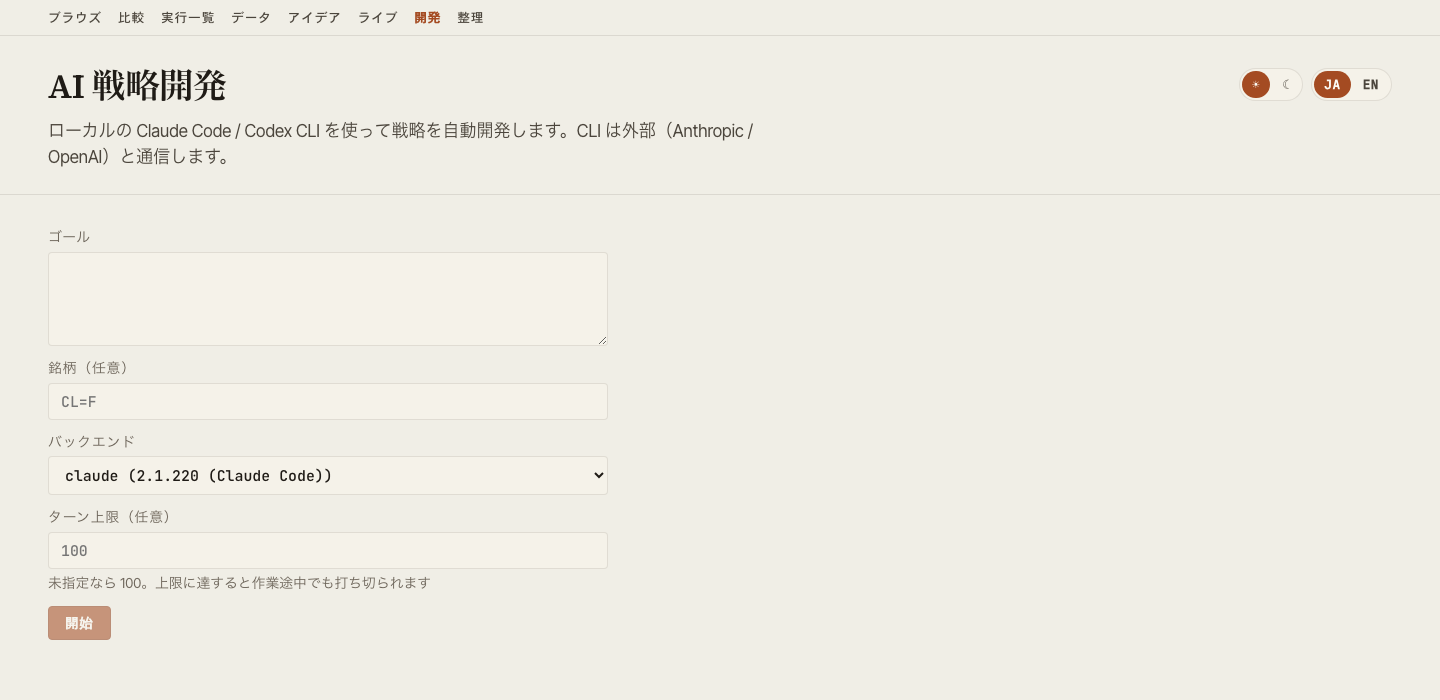
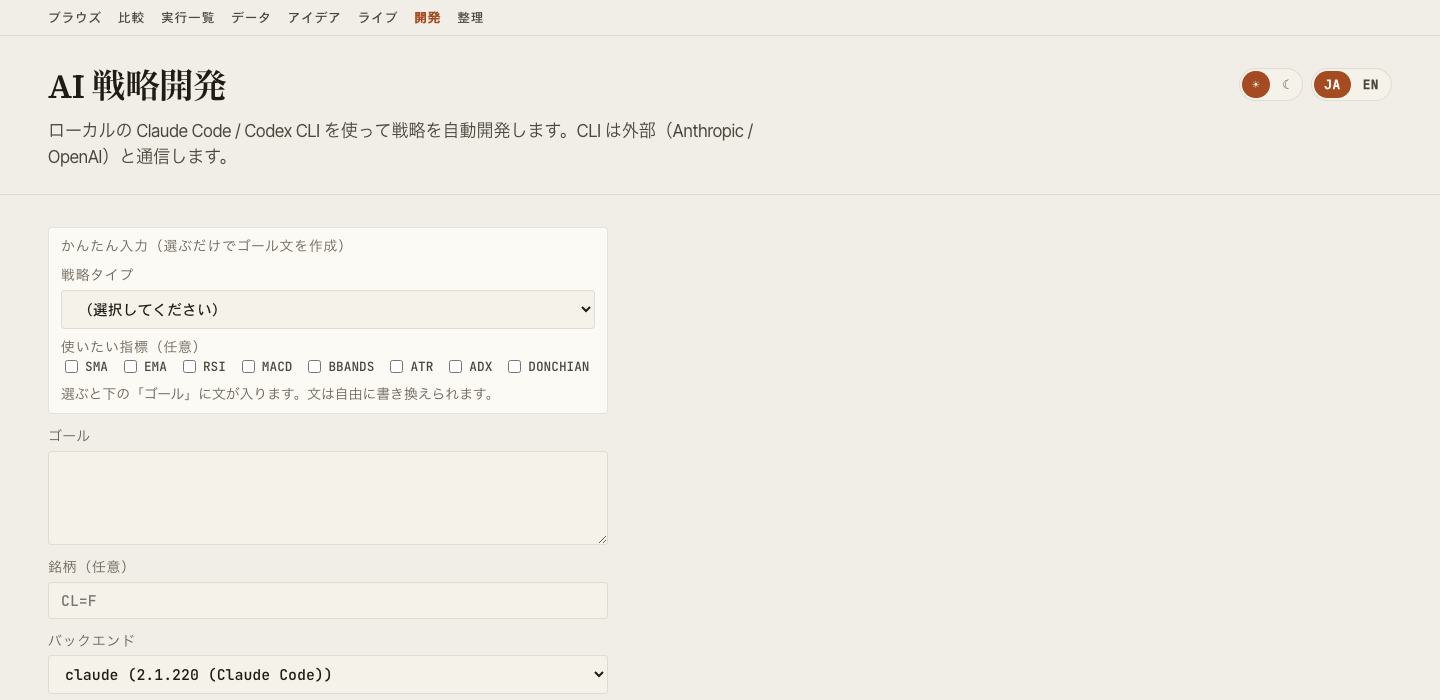
feat(front): 開発画面にゴールビルダー（選択式でゴール文を組み立て）を追加 (#499)
自由文でゴールを書けない初中級者向けに「かんたん入力」（折りたたみ）を
追加。戦略タイプ（トレンドフォロー / 平均回帰 / ブレイクアウト）と指標
（Pine 対応の主要 8 種に限定 — 非対応指標を勧めると #488 の警告対象になる）
を選ぶと、共通のゴール欄に文が組み上がる。モード切替は設けず、組み上がった
文はそのまま編集でき、自由記述も従来通り（API 変更なし）。

文言の SSoT は lib/goalBuilder.ts（pure function・日英）。銘柄はゴール文に
含めない — symbol パラメータとして別途プロンプトに渡るため、二重管理を
避ける。

Refs #489

diff --git a/frontend/src/screens/DevelopScreen.tsx b/frontend/src/screens/DevelopScreen.tsx
@@ -6,6 +6,8 @@ import { Button, ErrorBanner, Loading } from '../design/primitives'
 import type { Theme } from '../hooks/useTheme'
 import type { Lang } from '../i18n/strings'
 import { makeL } from '../i18n/strings'
+import type { GoalTypeId } from '../lib/goalBuilder'
+import { BUILDER_INDICATORS, GOAL_TYPES, buildGoalText } from '../lib/goalBuilder'
 import { SettingsToggles } from '../components/SettingsToggles'
 
 type AgentBackendId = 'claude' | 'codex'
@@ -271,6 +273,21 @@ function DevelopForm({
   )
   const [maxTurns, setMaxTurns] = useState('')
 
+  // ゴールビルダー（issue #489）。選択が変わるたびにゴール欄へ文を書き込む。
+  // 何も選ばれていない状態への遷移では空文字が返り、自由記述を消さない。
+  const [builderType, setBuilderType] = useState<GoalTypeId | ''>('')
+  const [builderIndicators, setBuilderIndicators] = useState<readonly string[]>([])
+
+  const applyBuilder = (
+    typeId: GoalTypeId | '',
+    indicators: readonly string[],
+  ): void => {
+    setBuilderType(typeId)
+    setBuilderIndicators(indicators)
+    const text = buildGoalText(lang, typeId, indicators)
+    if (text !== '') setGoal(text)
+  }
+
   const canStart = goal.trim().length > 0 && !running
 
   // 未取得銘柄の警告（issue #486）。一覧が取れていない（null）ときは
@@ -290,6 +307,99 @@ function DevelopForm({
         maxWidth: 560,
       }}
     >
+      {/* かんたん入力（issue #489）: 選択式でゴール文を組み立てる補助 UI。
+          モード切替ではなく共通のゴール欄へ書き込む形にする — 自由記述は
+          常に可能で、組み上がった文もそのまま編集できる。 */}
+      <details
+        open
+        style={{
+          border: '1px solid var(--border)',
+          borderRadius: 'var(--radius-sm)',
+          padding: 'var(--space-2) var(--space-3)',
+          background: 'var(--surface)',
+        }}
+      >
+        <summary
+          style={{ ...LABEL_STYLE, cursor: 'pointer', userSelect: 'none' }}
+        >
+          {L('かんたん入力（選ぶだけでゴール文を作成）', 'Quick input (build the goal by selecting)')}
+        </summary>
+        <div
+          style={{
+            display: 'flex',
+            flexDirection: 'column',
+            gap: 'var(--space-2)',
+            marginTop: 'var(--space-2)',
+          }}
+        >
+          <label style={LABEL_STYLE}>
+            {L('戦略タイプ', 'Strategy type')}
+            <select
+              aria-label={L('戦略タイプ', 'Strategy type')}
+              value={builderType}
+              onChange={(e) =>
+                applyBuilder(e.target.value as GoalTypeId | '', builderIndicators)
+              }
+              disabled={running}
+              style={CONTROL_STYLE}
+            >
+              <option value="">{L('（選択してください）', '(select)')}</option>
+              {GOAL_TYPES.map((t) => (
+                <option key={t.id} value={t.id}>
+                  {lang === 'ja' ? t.ja : t.en}
+                </option>
+              ))}
+            </select>
+          </label>
+          <fieldset
+            style={{
+              border: 'none',
+              margin: 0,
+              padding: 0,
+            }}
+          >
+            <legend style={{ ...LABEL_STYLE, padding: 0 }}>
+              {L('使いたい指標（任意）', 'Indicators (optional)')}
+            </legend>
+            <div style={{ display: 'flex', flexWrap: 'wrap', gap: '4px 12px' }}>
+              {BUILDER_INDICATORS.map((ind) => (
+                <label
+                  key={ind}
+                  style={{
+                    display: 'inline-flex',
+                    alignItems: 'center',
+                    gap: 4,
+                    fontFamily: 'var(--mono)',
+                    fontSize: 'var(--fs-mono-sm)',
+                    color: 'var(--text2)',
+                  }}
+                >
+                  <input
+                    type="checkbox"
+                    checked={builderIndicators.includes(ind)}
+                    onChange={(e) =>
+                      applyBuilder(
+                        builderType,
+                        e.target.checked
+                          ? [...builderIndicators, ind]
+                          : builderIndicators.filter((i) => i !== ind),
+                      )
+                    }
+                    disabled={running}
+                  />
+                  {ind}
+                </label>
+              ))}
+            </div>
+          </fieldset>
+          <span style={HINT_STYLE}>
+            {L(
+              '選ぶと下の「ゴール」に文が入ります。文は自由に書き換えられます。',
+              'Selecting fills the Goal below. You can edit the text freely.',
+            )}
+          </span>
+        </div>
+      </details>
       <label style={LABEL_STYLE}>
         {L('ゴール', 'Goal')}
         <textarea

diff --git a/frontend/src/lib/goalBuilder.ts b/frontend/src/lib/goalBuilder.ts
@@ -1,0 +1,81 @@
+import type { Lang } from '../i18n/strings'
+
+/**
+ * ゴールビルダー（issue #489）の文言 SSoT。
+ *
+ * 自由文でゴールを書けない初中級者向けに、選択式（戦略タイプ + 指標）から
+ * エージェントへ渡すゴール文を組み立てる。銘柄はゴール文に含めない —
+ * `POST /api/agent/jobs` の `symbol` パラメータとしてプロンプトに別途渡る
+ * ため、文とパラメータの二重管理（と食い違い）を避ける。
+ */
+
+export type GoalTypeId = 'trend_following' | 'mean_reversion' | 'breakout'
+
+export interface GoalTypeOption {
+  id: GoalTypeId
+  ja: string
+  en: string
+}
+
+export const GOAL_TYPES: readonly GoalTypeOption[] = [
+  { id: 'trend_following', ja: 'トレンドフォロー（順張り）', en: 'trend-following' },
+  { id: 'mean_reversion', ja: '平均回帰（逆張り）', en: 'mean-reversion' },
+  { id: 'breakout', ja: 'ブレイクアウト', en: 'breakout' },
+]
+
+/**
+ * ビルダーで選べる指標。Pine 対応（`analyze indicator list` で ✓）の主要
+ * どころに絞る — ここで非対応指標を勧めると、生成した戦略が TradingView へ
+ * 持ち出せなくなる（#488 の警告対象になる）。
+ */
+export const BUILDER_INDICATORS: readonly string[] = [
+  'SMA',
+  'EMA',
+  'RSI',
+  'MACD',
+  'BBANDS',
+  'ATR',
+  'ADX',
+  'DONCHIAN',
+]
+
+/**
+ * 選択内容からゴール文を組み立てる。何も選ばれていなければ空文字を返す
+ * （呼び出し側はユーザーの自由記述を上書きしないこと）。
+ */
+export function buildGoalText(
+  lang: Lang,
+  typeId: GoalTypeId | '',
+  indicators: readonly string[],
+): string {
+  if (typeId === '' && indicators.length === 0) return ''
+
+  const type = GOAL_TYPES.find((t) => t.id === typeId)
+  if (lang === 'ja') {
+    const parts: string[] = []
+    parts.push(
+      type != null
+        ? `${type.ja}型の投資戦略を新しく作成してください。`
+        : '投資戦略を新しく作成してください。',
+    )
+    if (indicators.length > 0) {
+      parts.push(`指標は ${indicators.join('、')} を中心に使ってください。`)
+    }
+    parts.push(
+      'バックテストを実行し、Sharpe レシオができるだけ高くなるようパラメータを調整してください。',
+    )
+    return parts.join('')
+  }
+
+  const parts: string[] = []
+  parts.push(
+    type != null
+      ? `Create a new ${type.en} trading strategy.`
+      : 'Create a new trading strategy.',
+  )
+  if (indicators.length > 0) {
+    parts.push(`Focus on these indicators: ${indicators.join(', ')}.`)
+  }
+  parts.push('Run backtests and tune the parameters to maximize the Sharpe ratio.')
+  return parts.join(' ')
+}

diff --git a/frontend/src/screens/__tests__/DevelopScreen.test.tsx b/frontend/src/screens/__tests__/DevelopScreen.test.tsx
@@ -280,3 +280,46 @@ describe('<DevelopScreen />', () => {
     expect(screen.getByText(/could not be determined/)).toBeInTheDocument()
   })
 })
+
+/**
+ * issue #489: 自由文でゴールを書けない初中級者向けの選択式ビルダー。
+ * ビルダー操作は共通のゴール textarea に文を書き込む（自由記述は常に可能）。
+ */
+describe('DevelopScreen ゴールビルダー (issue #489)', () => {
+  it('戦略タイプを選ぶとゴール欄に文が組み上がる', async () => {
+    renderScreen()
+    await userEvent.selectOptions(
+      screen.getByLabelText(/戦略タイプ/),
+      'trend_following',
+    )
+    const goal = screen.getByLabelText(/ゴール/) as HTMLTextAreaElement
+    expect(goal.value).toContain('トレンドフォロー')
+    expect(goal.value).toContain('Sharpe')
+  })
+
+  it('指標をチェックすると文に指標名が入る', async () => {
+    renderScreen()
+    await userEvent.selectOptions(
+      screen.getByLabelText(/戦略タイプ/),
+      'mean_reversion',
+    )
+    await userEvent.click(screen.getByRole('checkbox', { name: 'RSI' }))
+    const goal = screen.getByLabelText(/ゴール/) as HTMLTextAreaElement
+    expect(goal.value).toContain('RSI')
+  })
+
+  it('組み上がった文を編集してから開始すると編集後の文が渡る', async () => {
+    const { onStart } = renderScreen()
+    await userEvent.selectOptions(
+      screen.getByLabelText(/戦略タイプ/),
+      'breakout',
+    )
+    const goal = screen.getByLabelText(/ゴール/)
+    await userEvent.type(goal, ' 損切りは浅めにしてください。')
+    await userEvent.click(screen.getByRole('button', { name: /開始/ }))
+    expect(onStart).toHaveBeenCalled()
+    const calledGoal = (onStart.mock.calls[0] as string[])[0]!
+    expect(calledGoal).toContain('ブレイクアウト')
+    expect(calledGoal).toContain('損切りは浅めに')
+  })
+})

diff --git a/frontend/src/lib/__tests__/goalBuilder.test.ts b/frontend/src/lib/__tests__/goalBuilder.test.ts
@@ -1,0 +1,42 @@
+import { describe, expect, it } from 'vitest'
+import { buildGoalText, GOAL_TYPES, BUILDER_INDICATORS } from '../goalBuilder'
+
+/**
+ * issue #489: 自由文でゴールを書けない初中級者向けに、選択式ビルダーから
+ * ゴール文を組み立てる。文言の SSoT はこの pure function（日英）。
+ */
+describe('buildGoalText (issue #489)', () => {
+  it('戦略タイプと指標からゴール文を組み立てる（ja）', () => {
+    const text = buildGoalText('ja', 'trend_following', ['SMA', 'RSI'])
+    expect(text).toContain('トレンドフォロー')
+    expect(text).toContain('SMA、RSI')
+    expect(text).toContain('Sharpe')
+  })
+
+  it('タイプのみでも組み立てられる', () => {
+    const text = buildGoalText('ja', 'mean_reversion', [])
+    expect(text).toContain('平均回帰')
+    expect(text).not.toContain('指標')
+  })
+
+  it('指標のみでも組み立てられる', () => {
+    const text = buildGoalText('ja', '', ['MACD'])
+    expect(text).toContain('MACD')
+  })
+
+  it('何も選ばれていなければ空文字（textarea を上書きしない）', () => {
+    expect(buildGoalText('ja', '', [])).toBe('')
+  })
+
+  it('英語でも組み立てられる', () => {
+    const text = buildGoalText('en', 'breakout', ['ATR'])
+    expect(text).toContain('breakout')
+    expect(text).toContain('ATR')
+    expect(text).toContain('Sharpe')
+  })
+
+  it('タイプ・指標の候補は空でない（UI の選択肢の SSoT）', () => {
+    expect(GOAL_TYPES.length).toBeGreaterThan(0)
+    expect(BUILDER_INDICATORS.length).toBeGreaterThan(0)
+  })
+})
